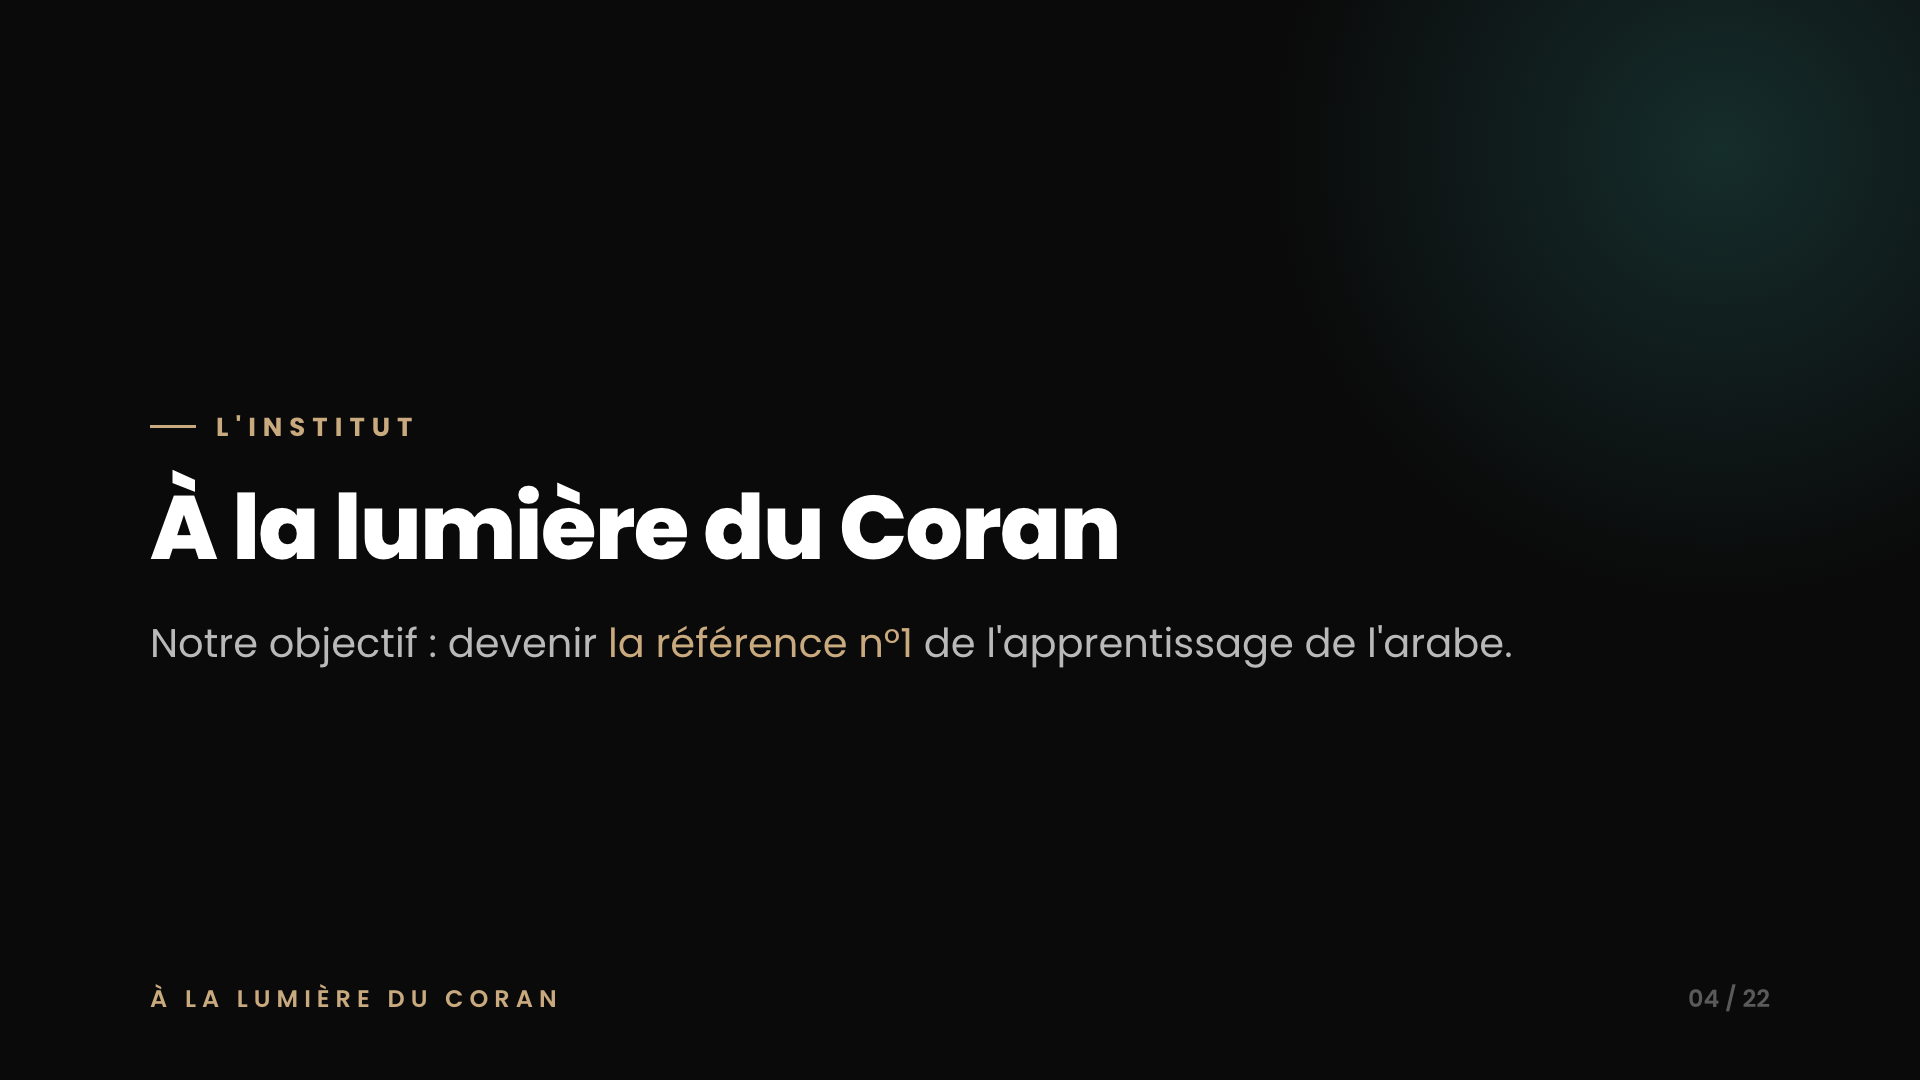
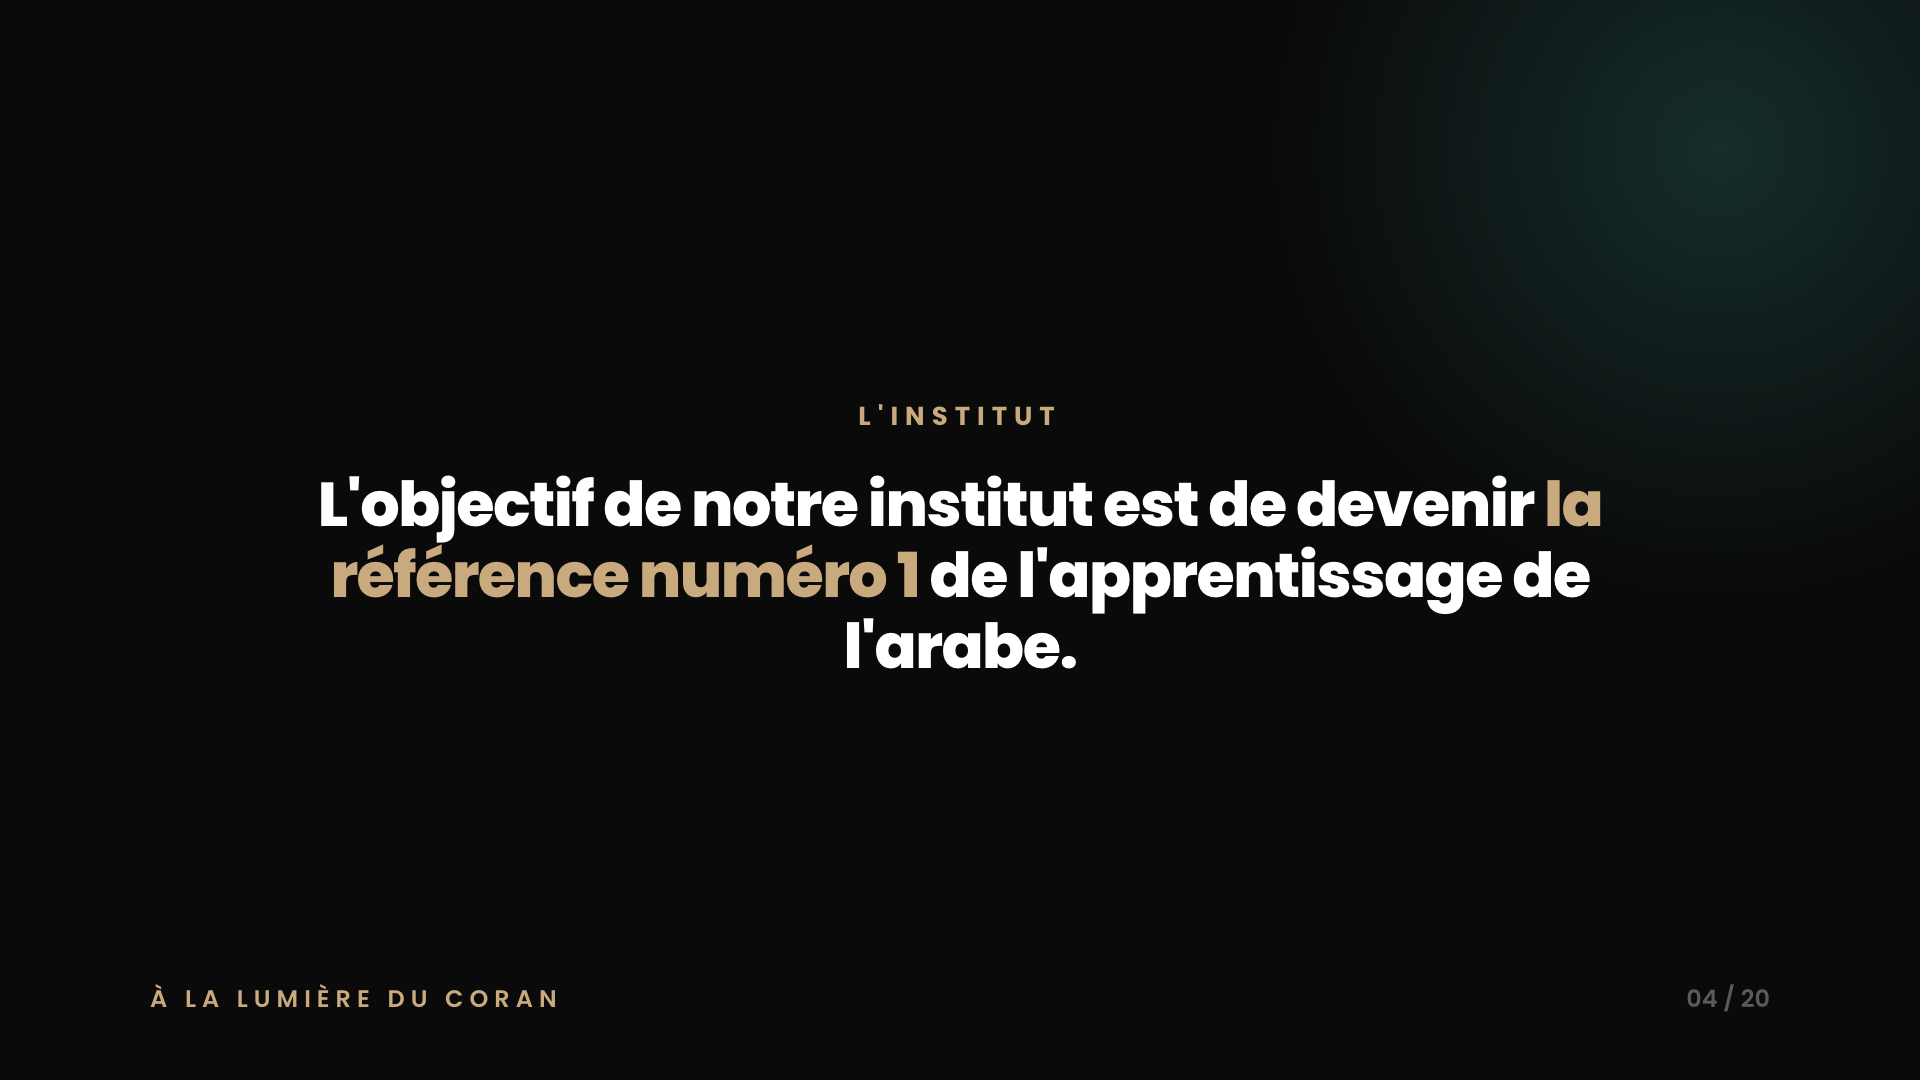
Slides VSL : révisions texte (intro, parcours, institut, qui on aide, programmes, prospects, organique, transformation, setter, étapes) + suppression 2 slides → 20 slides

diff --git a/slides/deck.html b/slides/deck.html
@@ -30,6 +30,7 @@
 
   h1{font-weight:800;font-size:90px;line-height:1.04;letter-spacing:-1.5px;position:relative;z-index:2;max-width:1500px}
   .center h1{font-size:104px;max-width:1500px}
+  .slide.sm h1{font-size:62px;line-height:1.14}
   h1 .g{color:var(--gold)} h1 .v{color:var(--green)}
 
   .sub{color:var(--grey);font-size:40px;line-height:1.42;margin-top:40px;max-width:1380px;font-weight:400;position:relative;z-index:2}
@@ -55,33 +56,31 @@
 <div id="root"></div>
 <script>
 const S = [
-  {k:"On recrute", t:`Salam aleykoum.`, sub:`Si tu regardes cette vidéo, c'est que tu es <b style="color:#C9A97E">setter</b> ou <b style="color:#3E9079">closer</b> — et on recrute. Regarde-la en entier : sinon ta candidature ne sera pas prise en compte.`, center:true},
+  {k:"On recrute", sm:true, t:`Actuellement, nous recherchons des <span class="g">setters</span> et des <span class="v">closers</span> <span style="color:#9a9a9a;font-weight:600">(homme / femme)</span> pour notre institut.`, sub:`Je t'invite à bien regarder cette vidéo en entier pour comprendre ce qu'on recherche — et ce qu'on ne recherche pas.`},
   {k:"Qui suis-je", t:`Moi, c'est <span class="g">Thomas</span>.`, bullets:[`Professeur d'arabe depuis plus de <b>4 ans</b>`,`Formé par <b>Nouman Ali Khan</b>, l'un des profs d'arabe les plus connus au monde`]},
-  {k:"Mon parcours", t:`J'avais tout essayé.`, sub:`Rien n'avait fonctionné… jusqu'à ce que je découvre cette méthode. J'ai vécu exactement ce que vivent les élèves qu'on accompagne — je connais leurs blocages et ce dont ils ont besoin.`},
-  {k:"L'institut", t:`À la lumière du Coran`, sub:`Notre objectif : devenir <span style="color:#C9A97E">la référence n°1</span> de l'apprentissage de l'arabe.`},
+  {k:"Mon parcours", t:`J'avais tout essayé pour <span class="g">apprendre l'arabe</span>…`, sub:`Rien n'avait fonctionné, jusqu'à ce que je découvre cette méthode. J'ai donc vécu exactement ce que vivent les élèves qu'on accompagne — je connais leurs blocages et ce dont ils ont besoin.`},
+  {k:"L'institut", center:true, sm:true, t:`L'objectif de notre institut est de devenir <span class="g">la référence numéro 1</span> de l'apprentissage de l'arabe.`},
   {t:`Et pour ça,<br>on a besoin <span class="g">de toi.</span>`, center:true},
-  {k:"Qui on aide", t:`Des musulmans francophones,<br><span class="g">25 à 45 ans</span>.`, sub:`Objectif : une compréhension totale de l'arabe coranique en <b style="color:#C9A97E">10 mois</b>.`},
-  {k:"La méthode Baynah", t:`Comprendre le Coran.<br><span class="v">Pas réciter sans saisir.</span>`, sub:`On ne perd pas des mois à apprendre à se présenter ou à demander du pain. L'objectif premier, c'est la compréhension du Coran.`},
-  {t:`Comprendre ce qu'ils <span class="g">lisent</span>,<br>ce qu'ils <span class="g">récitent</span>,<br>ce qu'ils entendent à la <span class="g">mosquée</span>.`, center:true},
-  {k:"Nos 2 programmes", t:`Deux parcours`, pair:[{num:"9 mois",lbl:"Pour ceux qui savent déjà lire l'arabe"},{num:"10 mois",lbl:"Pour ceux qui ne savent pas encore lire"}]},
+  {k:"Qui on aide ?", t:`Des <span class="g">frères et sœurs francophones</span>,<br>principalement entre 25 et 50 ans.`, sub:`Leur objectif : atteindre une compréhension totale de l'arabe coranique en <b style="color:#C9A97E">10 mois</b>.`},
+  {k:"Nos 2 programmes", t:`Deux programmes <span class="g">high-ticket</span>`, pair:[{num:"9 mois",lbl:"Pour ceux qui savent déjà lire l'arabe"},{num:"10 mois",lbl:"Pour ceux qui ne savent pas encore lire"}]},
   {k:"L'accompagnement", t:`Un suivi <span class="g">complet</span>`, bullets:[`Cours individuels avec un <b>professeur attitré</b>`,`Une <b>plateforme vidéo</b>`,`Des <b>manuels</b> pour le travail personnel`]},
-  {k:"D'où viennent nos prospects", t:`Un tunnel VSL <span class="g">qui tourne</span>.`, sub:`Avec, en plus, une forte présence organique.`},
-  {k:"Présence organique", t:`Une vraie audience`, pair:[{num:"12K",lbl:"Instagram"},{num:"27K",lbl:"Facebook"},{num:"3K",lbl:"YouTube"}]},
-  {k:"Ce qu'on vend vraiment", t:`Pas des cours de langue.<br>Une <span class="v">transformation spirituelle.</span>`, sub:`Comprendre enfin le Coran et ses prières, se rapprocher d'Allah, et transmettre cet apprentissage à ses enfants. Les témoignages sont réels — ils sont sur ma chaîne YouTube.`},
+  {k:"D'où viennent nos prospects ?", t:`Un tunnel VSL <span class="g">qui performe</span>.`, sub:`Avec, en plus, une présence organique.`},
+  {sm:true, t:`Pour la présence organique, l'institut compte :`, pair:[{num:"12K",lbl:"Instagram"},{num:"27K",lbl:"Facebook"},{num:"3K",lbl:"YouTube"}]},
+  {k:"Ce qu'on vend vraiment", sm:true, t:`Pas de simples cours de langue, mais une réelle <span class="v">transformation spirituelle</span>.`, sub:`Car à la fin de notre programme, nos élèves pourront enfin comprendre le Coran et les prières, pour se rapprocher d'Allah, et transmettre potentiellement cet apprentissage à leurs enfants. Plusieurs témoignages sont disponibles sur ma chaîne YouTube « témoignages ».`},
   {k:"Le rôle du setter", t:`Tu ne prends pas<br>que des rendez-vous.`, sub:`Tu <span style="color:#C9A97E">qualifies</span> et tu <span style="color:#C9A97E">éduques</span>. Tu es la première voix de l'institut.`},
-  {k:"Setter — tes missions", t:`Ce qu'on attend de toi`, bullets:[`<b>Réactivité immédiate</b> : recontacter un lead en moins de 5 min`,`<b>Qualification fine</b> : repérer les vrais projets, pas les curieux`,`<b>RDV de qualité</b> : prospects pré-vendus, show-up <span class="v">> 80 %</span>`]},
+  {k:"Setter — tes missions", t:`Ce qu'on attend de toi`, bullets:[`<b>Une réactivité immédiate</b> : recontacter par téléphone un lead qui a laissé ses informations, en moins de 5 min`,`<b>Une qualification fine</b> : repérer les vrais projets, pas les curieux`,`<b>Des RDV de qualité</b> : prospects pré-vendus, et un taux de show-up <span class="v">supérieur à 80 %</span>`]},
   {k:"Le rôle du closer", t:`On ne cherche pas<br><span class="g">n'importe qui.</span>`, center:true},
   {k:"Closer — ce qu'on recherche", bullets:[`<b>Expérience</b> en closing (B2C idéalement, pas obligatoire)`,`<b>Sensibilité spirituelle</b> : comprendre l'impact de ce qu'on vend`,`<b>Ambition</b> : grandir avec nous, sur le long terme`,`<b>Autonomie</b> : gérer ton temps et tes résultats`,`<b>Bienveillance</b> : rassurer des élèves qui ont souvent connu l'échec`]},
   {k:"Ce qu'on t'offre", bullets:[`Une <b>formation complète</b> à notre méthode et notre script`,`Des <b>leads qualifiés</b> en quantité via le tunnel VSL`,`Des <b>outils et process rodés</b> (CRM, scripts…)`,`Une <b>évolution rapide</b> selon ta performance`]},
   {k:"Rémunération — Setter", t:`<span class="g">Setter</span>`, bullets:[`<b>4 %</b> sur le no-booking · <b>8 %</b> sur le self-booking <span style="color:#B9B9B9;font-weight:400">(sur le cash collecté)</span>`,`<b>Bonus de performance</b> : speed-to-lead & taux de show-up`]},
   {k:"Rémunération — Closer", t:`<span class="g">Closer</span>`, bullets:[`<b>10 %</b> du cash collecté`,`<b>Bonus de performance</b> : PIF & montant total collecté`]},
-  {k:"Prochaine étape", t:`Remplis le formulaire<br>sous la vidéo.`, bullets:[`On étudie ta candidature sous <b>24 h</b>`,`Entretien avec mon associé au recrutement`,`Une petite phase de test (role-plays)`,`Si tout est bon → <span class="v">onboarding dans l'équipe</span>`]},
+  {k:"Prochaine étape", t:`Remplis le formulaire<br>sous la vidéo.`, bullets:[`On étudiera ta candidature sous <b>48 h</b>`,`Si ton profil nous intéresse, tu auras un entretien avec mon associé`,`Une phase de test (role-plays)`,`Et si tout est bon → <span class="v">onboarding dans l'équipe</span>`]},
   {t:`Prêt à <span class="g">transformer des vies</span><br>avec nous ?`, sub:`Postule juste en dessous 👇`, center:true},
 ];
 
 function render(i){
   const s = S[i];
-  let h = `<div class="slide show${s.center?' center':''}">`;
+  let h = `<div class="slide show${s.center?' center':''}${s.sm?' sm':''}">`;
   if(s.k) h += `<div class="kicker">${s.k}</div>`;
   if(s.t) h += `<h1>${s.t}</h1>`;
   if(s.sub) h += `<div class="sub">${s.sub}</div>`;
